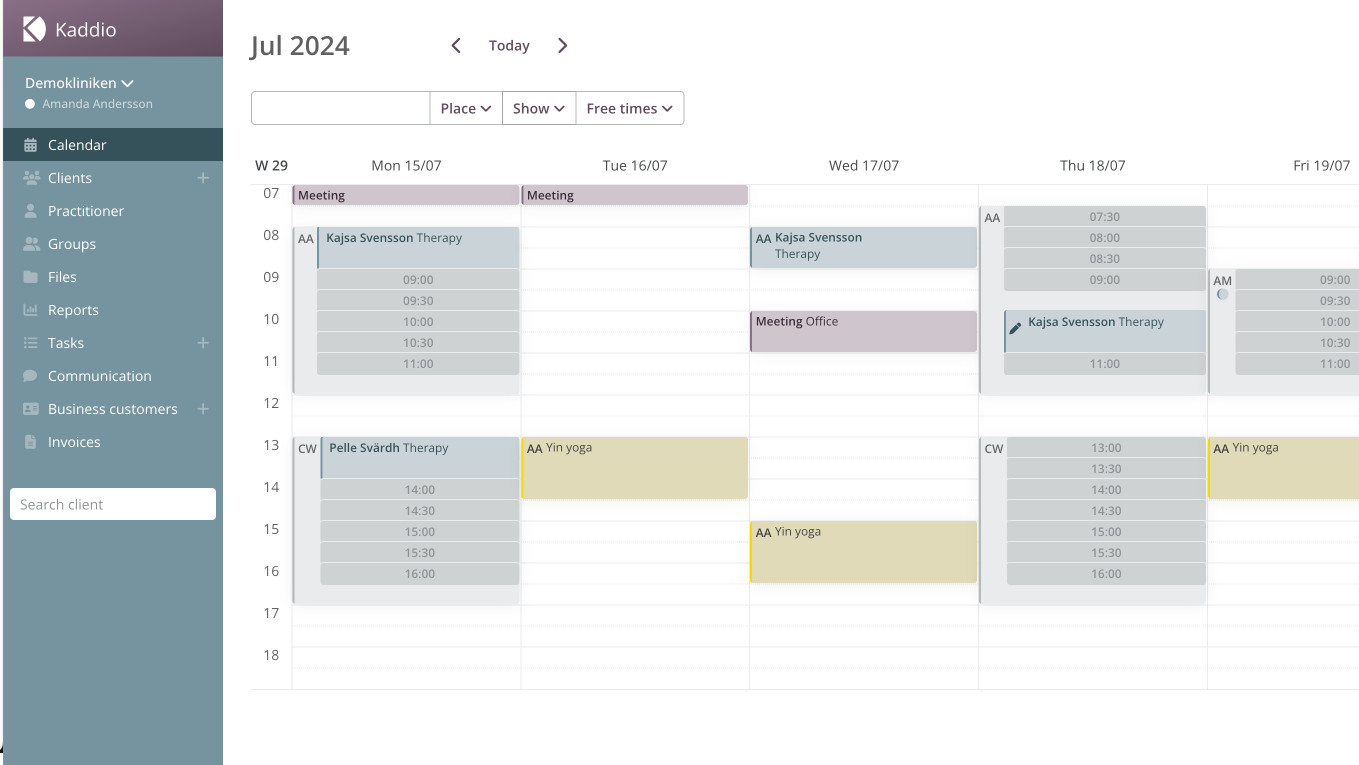
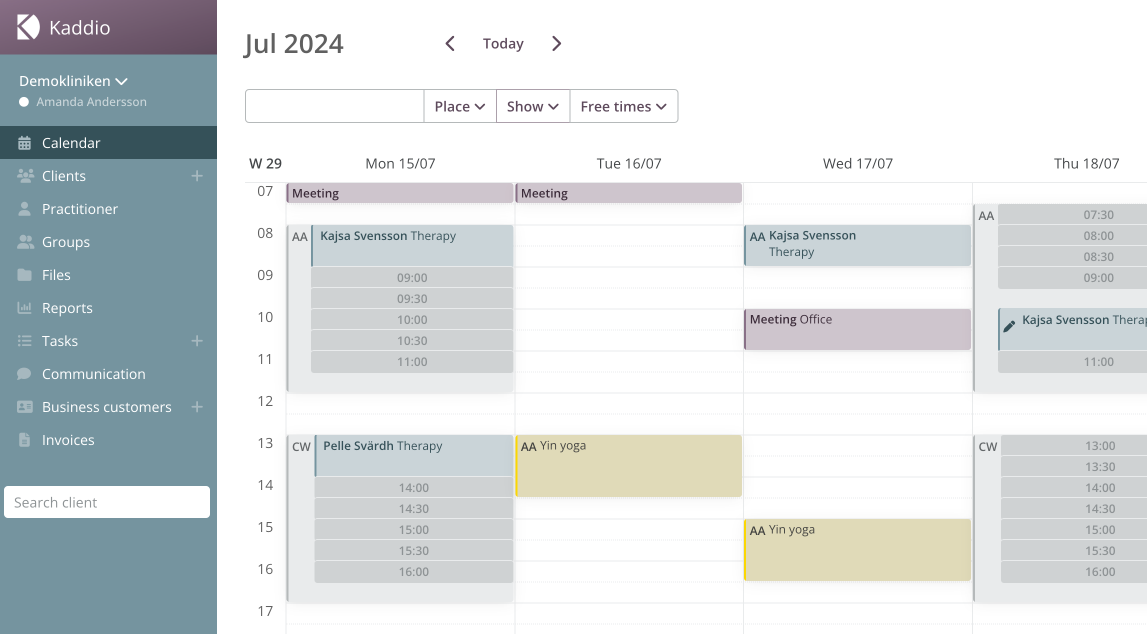
new-img

diff --git a/web/src/routes/(hp)/en/(feature)/online-booking/+page.svelte b/web/src/routes/(hp)/en/(feature)/online-booking/+page.svelte
@@ -23,7 +23,7 @@
 	<meta name="description" content="Easy-to-use time booking and online payment that does everything you expect." />
 </svelte:head>
 
-<ModuleSectionWithImage src="/img/kaddio-screenshots/booking-overview-en.png" alt="Kaddio onlinebokning och kalender">
+<ModuleSectionWithImage src="/img/kaddio-screenshots/booking-en.png" alt="Kaddio onlinebokning och kalender">
 	<span slot="h1">Online booking</span>
 	<span slot="title">Kaddio Booking</span>
 	<span slot="sub">
